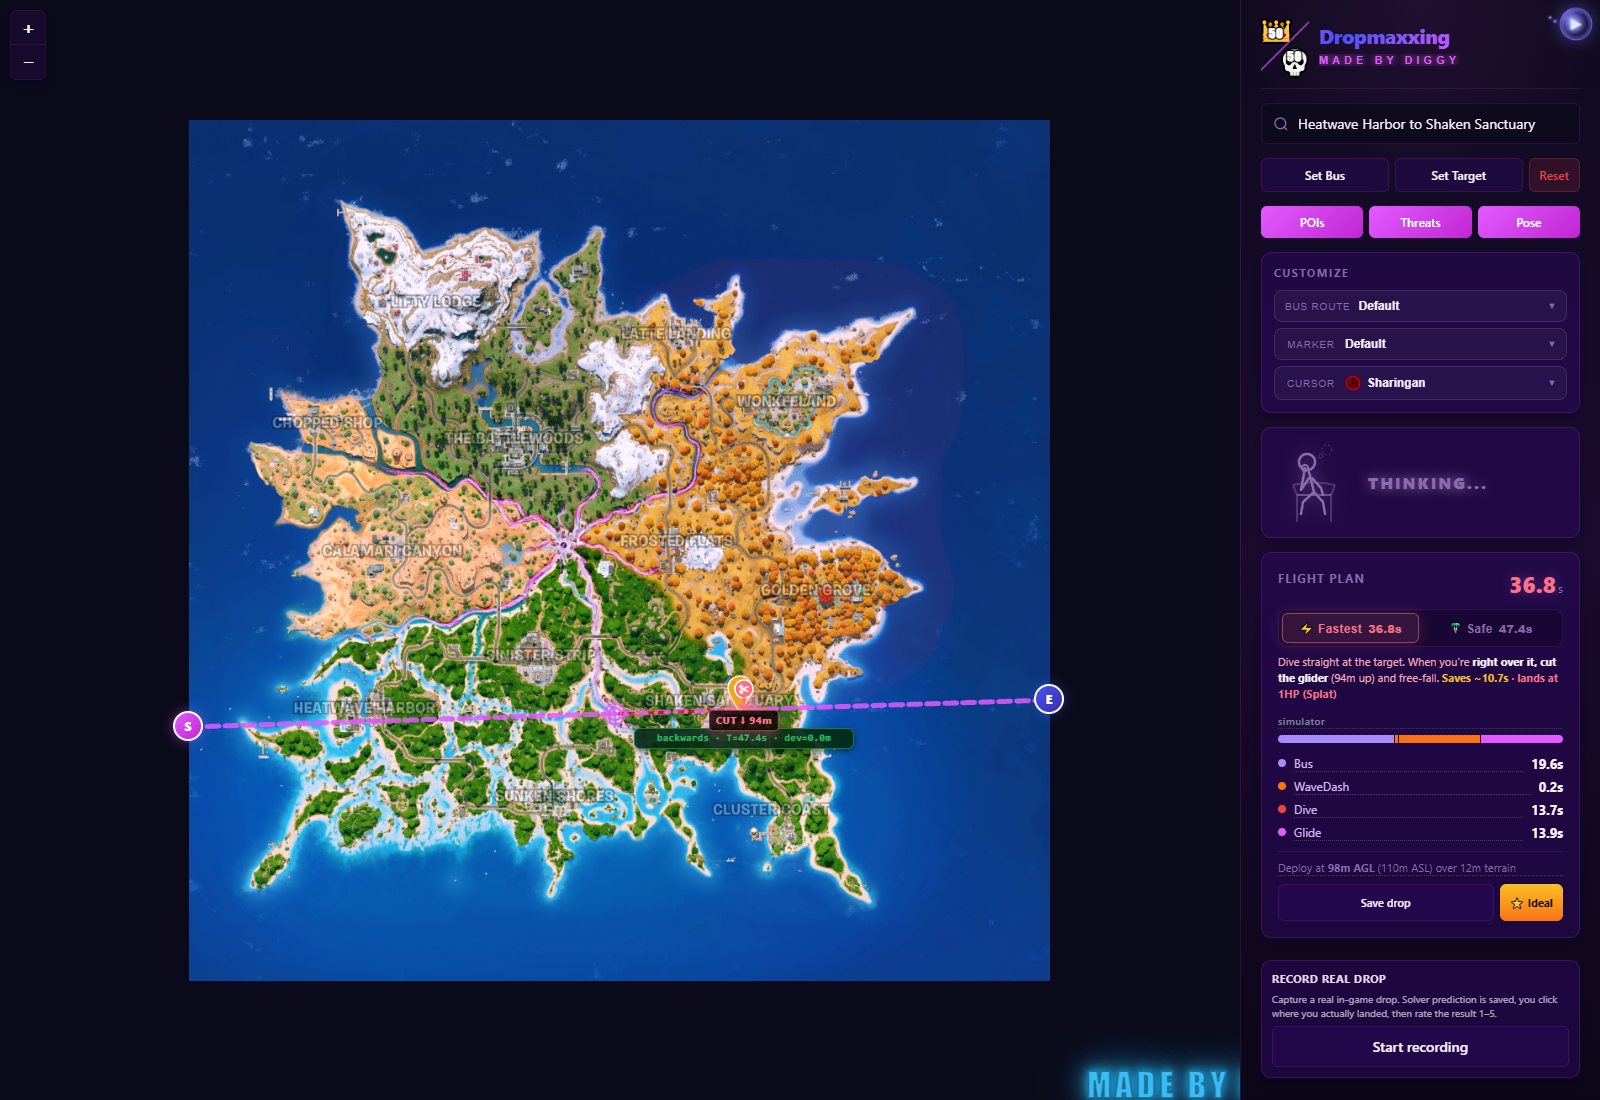
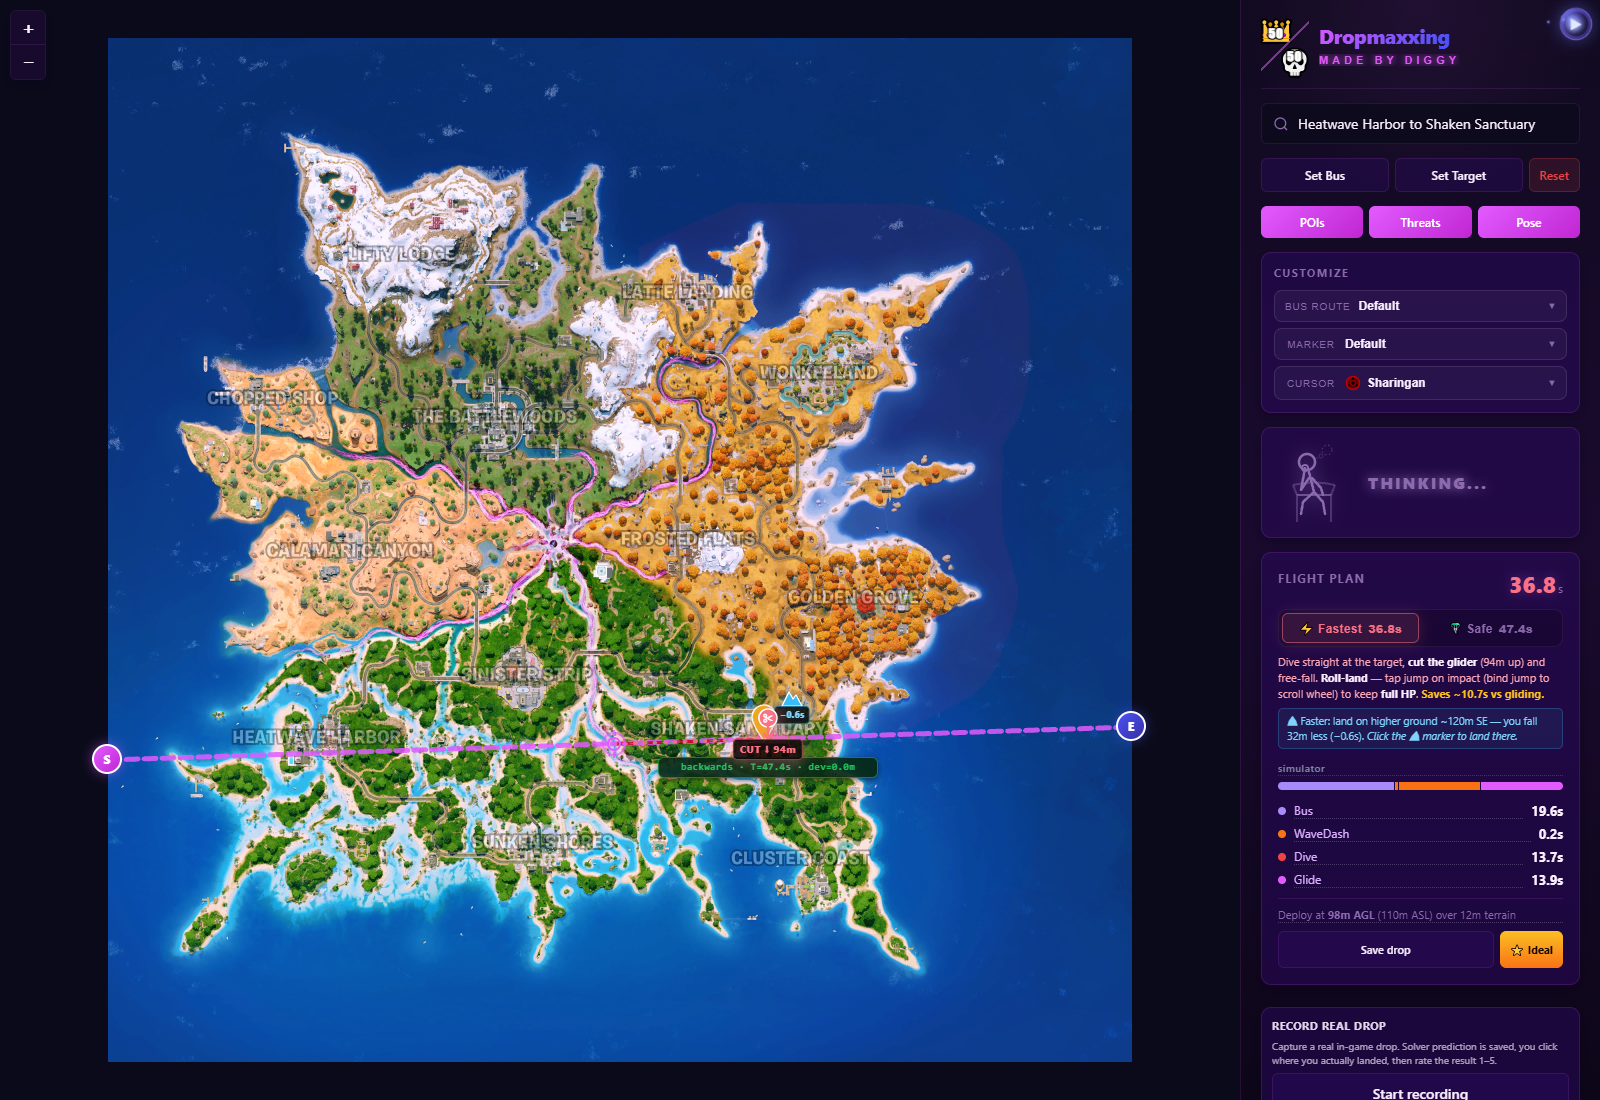
fix(dropmaxxer): correct the "cited constants" + refresh preview screenshot
The page bragged "Bus 830 m/s" as a cited constant, but 830 is the bus ALTITUDE
(832 m), not speed — and the calculator uses ~75 m/s. Also fixed inflated
nosedive (~190→~60) and glide (~80→~17) figures to match the actual physics
constants. Refreshed preview to show the high-ground finder + roll-land guidance.

diff --git a/src/data/products.ts b/src/data/products.ts
@@ -453,7 +453,7 @@ export const products: Product[] = [
       },
       {
         title: 'Cited constants.',
-        body: 'Bus 830 m/s. Auto-deploy 100 m. Glide and nosedive published, not hidden.',
+        body: 'Bus 75 m/s at 832 m. Auto-deploy 100 m. Glide and nosedive published, not hidden.',
       },
     ],
     // Dropmaxxer is a browser app (no installer) — launch it directly.
@@ -464,7 +464,7 @@ export const products: Product[] = [
     glyph: '◇',
     accentHex: '#4c51f7',
     screenshots: ['/screenshots/dropmaxxer/preview.png'],
-    heroStat: { value: '830 m/s', label: 'bus speed · cited' },
+    heroStat: { value: '832 m', label: 'bus altitude · cited' },
     zones: [
       {
         eyebrow: '01 · The Constants',
@@ -473,10 +473,10 @@ export const products: Product[] = [
         visual: {
           kind: 'bars',
           bars: [
-            { label: 'Bus speed', value: '830 m/s', ratio: 1.0, emphasize: true },
-            { label: 'Nosedive', value: '~190 m/s', ratio: 0.23 },
-            { label: 'Glide', value: '~80 m/s', ratio: 0.096 },
-            { label: 'Auto-deploy altitude', value: '100 m', ratio: 0.12 },
+            { label: 'Bus speed', value: '~75 m/s', ratio: 1.0, emphasize: true },
+            { label: 'Nosedive (terminal)', value: '~60 m/s', ratio: 0.8 },
+            { label: 'Glide (horizontal)', value: '~17 m/s', ratio: 0.23 },
+            { label: 'Auto-deploy altitude', value: '100 m', ratio: 0.35 },
           ],
           caption: 'Constants published with the build · cross-referenced against community research',
         },
